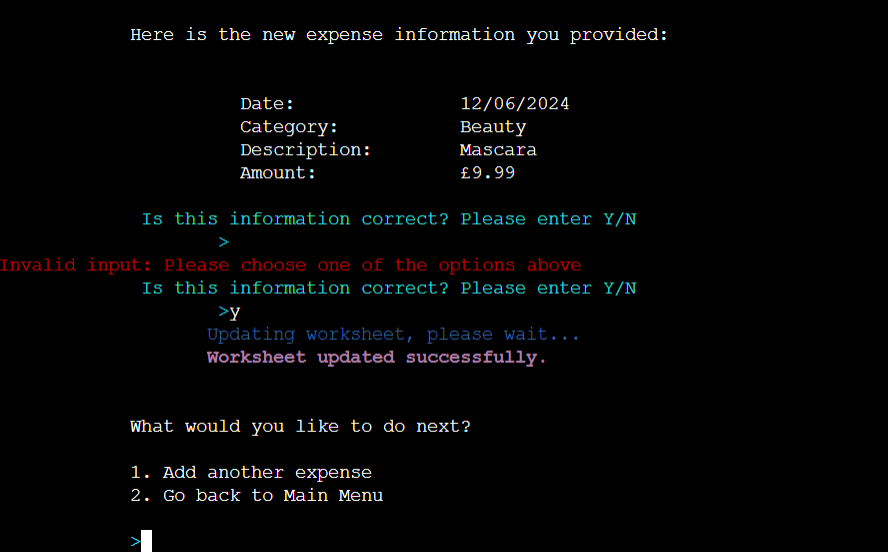
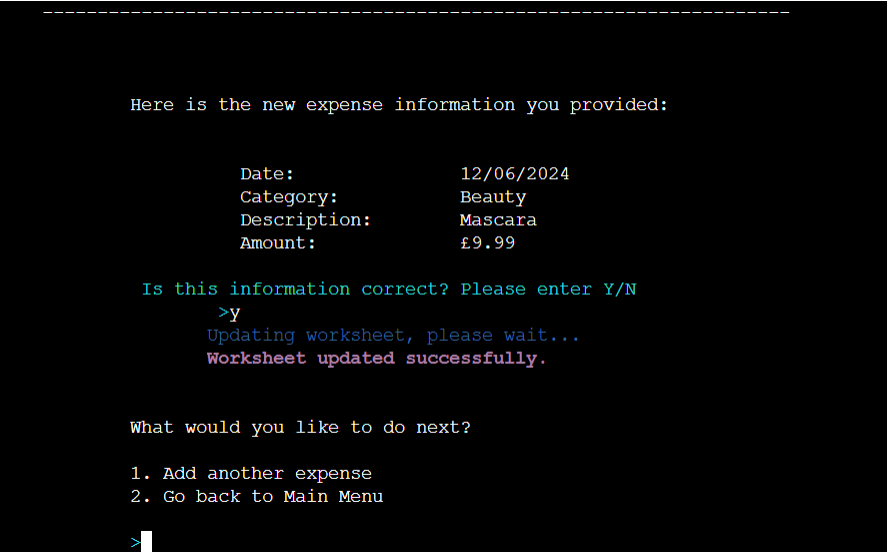
Finish add new expense section in readme and add more screenshots to images folder

diff --git a/README.md b/README.md
@@ -25,9 +25,9 @@ Welcome to <a href="https://pennywise-budget-tracker-ce1c05dc8133.herokuapp.com/
       * [Add Category of Transaction](<#add-category-of-transaction>)
       * [Add Description of Transaction](<#add-description-of-transaction>)
       * [Add Amount of Transaction](<#add-amount-of-transaction>)
-      * [Confirm Transaction](<#confirm-transaction>)
+      * [Confirm Expense](<#confirm-expense>)
       * [Update Worksheet](<#update-worksheet>)
-    * [View Statement](<#view-statement>)
+    * [View Statement Menu](<#view-statement-menu>)
       * [By Date](<#by-date>)
       * [By Month](<#by-month>)
       * [By Category](<#by-category>)
@@ -111,15 +111,16 @@ The worksheet has 4 columns of data that save the date, category, description an
    Pennywise is back-end program therefore not much styling or visual design has been implementes. 
 
    * [Colorama](https://pypi.org/project/colorama/) library for Python was used to add colour to the program to give visual feedback to the user.
-    - Red has been used for invalid input messages.
-    - Blue has been used for loading messages.
-    - Yellow has been used for messages regarding exiting the program or   
-      returning to the Main Menu.
-    - Cyan has been used for 
-    - Light cyan has been used for instructions before user input.
-    - Magenta has been for feedback regarding the worksheet being updated 
-      successfully.
-    - Dim style has been used to give extra information about user input.
+      - Red has been used for invalid input messages.
+      - Blue has been used for loading messages.
+      - Yellow has been used for messages regarding exiting the program   
+        or returning to the Main Menu.
+      - Cyan has been used for the please note messages in the view 
+        statement section.
+      - Light cyan has been used for instructions before user input.
+      - Magenta has been for feedback regarding the worksheet being 
+        updated successfully.
+      - Dim style has been used to give extra information about user input.
 
  [Back To Top](<#contents>)
 
@@ -129,28 +130,121 @@ The worksheet has 4 columns of data that save the date, category, description an
   - ### Welcome Page
     When the user first enters the site, the welcome page greets them. The user sees the logo and a short message explaining what the program does. Whilst the user is viewing this page, the [Main Menu](<#main-menu>) is loading.
 
-    Welcome Page:\
-    ![Welcome Page](media/site-screenshots/welcome-modal.png)
-
-    Welcome Message Modal Mobile:\
-    ![Welcome Message Modal Mobile](media/site-screenshots//welcome-modal-mobile.png)
+  <details>
+    <summary>Welcome Page</summary>
+    ![Welcome Page](assets/images/welcome_page.png)
+  </details>
 
   - ### Main Menu
+    The [Main Menu](<#main-menu>) gives the user 3 choices: [Add New Expense](<#add-new-expense>), [View Statement](<#view-statement>) or Exit. If the user chooses to exit, they will be redirected back to the [Welcome Page](<#welcome-page>).
+
+  <details>
+    <summary>Main Menu</summary>
+    ![Main Menu](assets/images/main-menu.png)
+  </details>
 
   - ### Add New Expense
+    The add new expense function collects 4 pieces of information from the user. These are the [date](<#add-date-of-transaction>), [category](<#add-category-of-transaction>), [description](<#add-description-of-transaction>) and [amount](<#add-amount-of-transaction>) of the transaction. Once all 4 details have been collected, the user is shown a summary of that information in the [Confirm Transaction](<#confirm-transaction>) function. If the user confirms all the details are correct. The google worksheet will be updated with the new expense. However, if the user entered something wrong they can choose to add the information again, or even return to the [Main Menu](<#main-menu>).
+
     - #### Add Date of Transaction
+      The user is asked for the date and is shown the format it needs to be in. If the user enters an invalid response an error message appears and the user is asked to re-enter the information in the correct format.
+    <details>
+      <summary>Add Date of Transaction</summary>
+      ![Add Date of Transaction](assets/images/add-expense-date)
+    </details>
+
+    <details>
+      <summary>Invalid Input</summary>
+      ![Add Date of Transaction Invalid Input](assets/images/add_expense_date_invalid_input)
+    </details>
     
     - #### Add Category of Transaction
+      The user is asked for the category of the transaction. If the user enters an invalid response an error message appears and the user is asked to re-enter the information in the correct format.
+    <details>
+      <summary>Add Category of Transaction</summary>
+      ![Add Category of Transaction](assets/images/add-expense-category)
+    </details>
+
+    <details>
+      <summary>Invalid Input</summary>
+      ![Add Category of Transaction Invalid Input](assets/images/add_expense_category_invalid_input)
+    </details>
 
     - #### Add Description of Transaction
+      The user is asked for the description of the transaction. If the user enters an invalid response an error message appears and the user is asked to re-enter the information in the correct format.
+    <details>
+      <summary>Add Description of Transaction</summary>
+      ![Add Description of Transaction](assets/images/add-expense-description)
+    </details>
+
+    <details>
+      <summary>Invalid Input</summary>
+      ![Add Description of Transaction Invalid Input](assets/images/add_expense_description_invalid_input)
+    </details>
 
     - #### Add Amount of Transaction
+      The user is asked for the amount of the transaction. They are shown the format the input needs to be. If the user enters an invalid response an error message appears and the user is asked to re-enter the information in the correct format.
+    <details>
+      <summary>Add Amount of Transaction</summary>
+      ![Add Amount of Transaction](assets/images/add-expense-amount)
+    </details>
 
-    - #### Confirm Transaction
+    <details>
+      <summary>Invalid Input</summary>
+      ![Add Amount of Transaction Invalid Input](assets/images/add_expense_amount_invalid_input)
+    </details>
+
+    - #### Confirm Expense
+      Th user is shown all the information they have entered in the previous 4 steps in a format that is easy to read and understand. The user is asked to confirm if this information is correct. 
+      
+      If the user chooses 'Y', the worksheet will be updated and the user will receive feedback once it has been successful. 
+      
+      However, if the user chooses 'N' they will be shown a new menu of choices. They can choose to re-enter the informtion and be taken back to the [add new expense](<#add-new-expense>) process, return to [main menu](<#main-menu>) or choose to confirm the information above. The third option is in case the user mis-typed their answer before.
+
+      If the user inputs in invalid response they will be shown an error message and be asked to enter a valid response.
+    <details>
+      <summary>Confirm Transaction Page</summary>
+      ![Confirm Transaction](assets/images/confirm_expense.png)
+    </details>
+
+    <details>
+      <summary>Confirm Transaction Invalid Input</summary>
+      ![Confirm Transaction Invalid Input](assets/images/confirm_expense_invalid_input.png)
+    </details>
+
+    <details>
+      <summary>Confirm Transaction Page if answered 'N'</summary>
+      ![Confirm Transaction Page if answered 'N'](assets/images/confirm_expense_no_input.png)
+    </details>
 
     - #### Update Worksheet
+      Onces the user has been shown the worksheet has been updated successfully, they are shown another menu. They have 2 choices, to add another expense of to return to the main menu. The user will be shown an error message and asked to a valid response if they enter an invalid answer. 
+
+    <details>
+      <summary>Worksheet Updated</summary>
+      ![Worksheet Updated](assets/images/updating_worksheet.png)
+    </details>
+
+    <details>
+      <summary>Worksheet Menu Invalid Input</summary>
+      ![Worksheet Menu Invalid Input](assets/images/updating_worksheet_invalid_response.png)
+    </details>
+
   
-  - ### View Statement
+  - ### View Statement Menu
+    The view statement page displays to the user 3 ways in which they can see their statement: [by date](<#by-date>), [by month](<#by-month>) or [by category](<#by-category>). They are also given the option to return to the [main menu](<#main-menu>) if they enter 'MM'. If the user enters and invalid reponse they will be shown an error message.
+
+    <details>
+      <summary>View Statement Menu</summary>
+      ![View Statement Menu](assets/images/view_statement_menu.png)
+    </details>
+
+    <details>
+      <summary>View Statement Menu Invalid Input</summary>
+      ![View Statement Menu Invalid Input](assets/images/view_statement_menu_invalid_input.png)
+    </details>
+
+    
     - #### By Date
 
     - #### By Month
